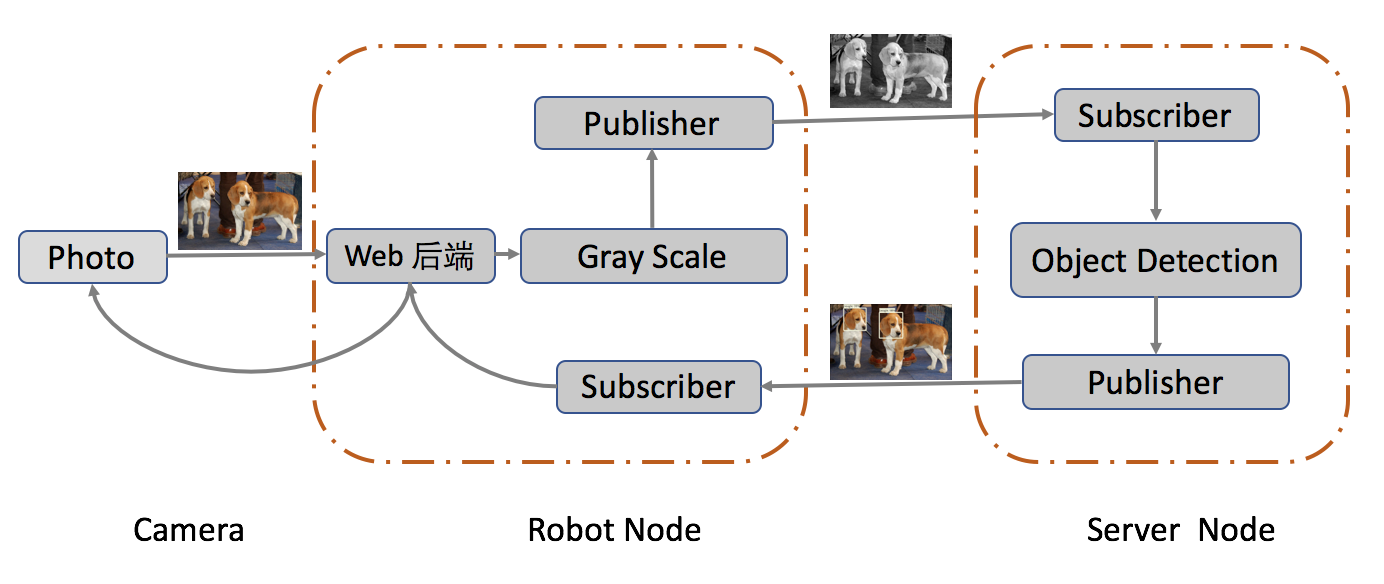
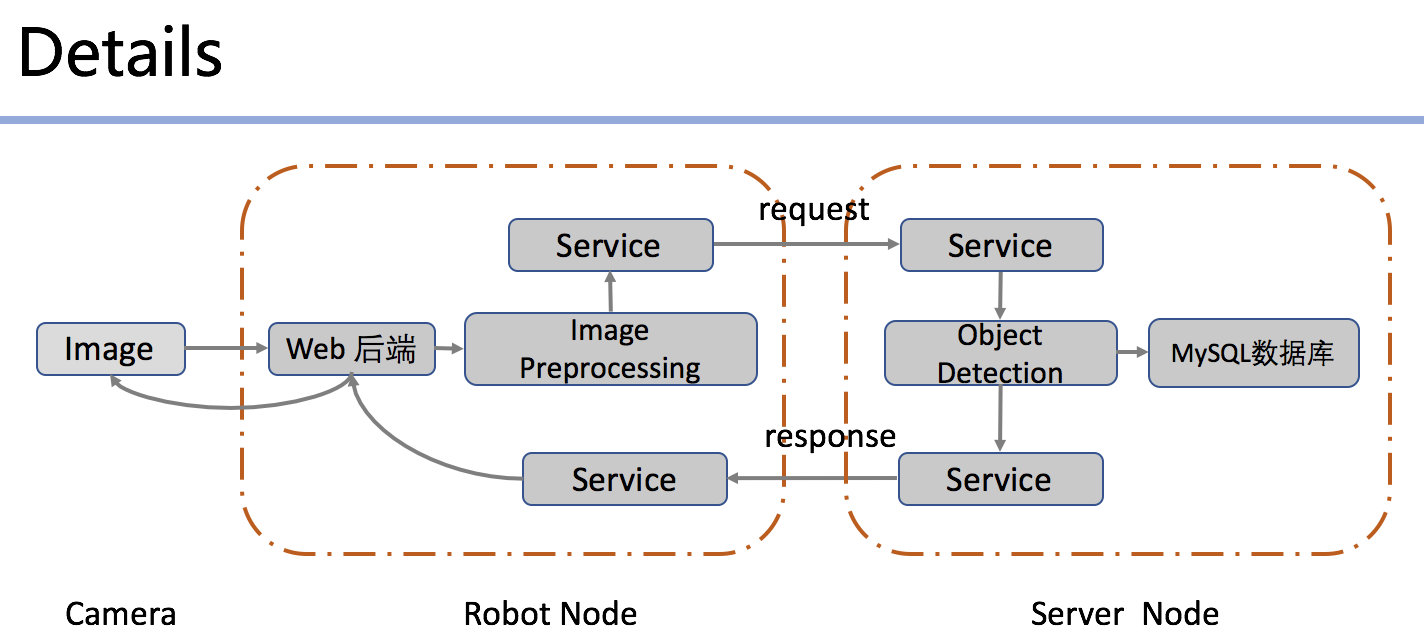
Update README and supplement requirement

diff --git a/README.md b/README.md
@@ -38,14 +38,15 @@ $ sudo apt install python-pip
 # 安装virtualenv
 $ sudo pip install virtualenv
 
-# 创建venv
+# 创建rosenv
 $ virtualenv rosenv -p /usr/bin/python3.5
 
-# 安装依赖包
+# 在创建rosenv路径下执行以下命令使用虚拟环境
+$ source rosenv/bin/activate
+
+# 在项目路径下执行下面命令安装依赖包
 $ pip install -r requirements.txt
 ```
-
-开发时需要先进入虚拟环境通过输入命令`source venv/bin/activate`，退出时输入命令`deactivate`
 
 
 
@@ -53,9 +54,11 @@ $ pip install -r requirements.txt
 
 ```
 |-rosproject/
-    |-msg/
-    |-images/                       # 相关图片
+    |-srv
+    |-images/                       # 项目相关图片
     |-scripts/                      # 脚本文件夹
+        |-input/                    # 存放上传的图片的文件夹
+        |-output/                   # 存放识别后的图片的文件夹
     	|-static/                   # 静态文件
     		|-css/                  # css样式文件
     			|-style.css
@@ -67,6 +70,7 @@ $ pip install -r requirements.txt
    		|-templates/                # html模版
    			|-index.html
         |-cloud_server.py           # 服务器节点
+        |-robot_client.py           # 客户端节点
         |-object_detection.py       # 物体检测识别
         |-web_server.py             # web端
     |-CMakeLists.txt                # 程序包元信息
@@ -79,7 +83,11 @@ $ pip install -r requirements.txt
 
 ## 3. 项目架构
 
-![system](./images/system.png)
+![system](./images/design.png)
+
+
+
+![system](./images/overview.png)
 
 
 
@@ -93,13 +101,47 @@ $ pip install -r requirements.txt
 
 * 物体检测模块
 
-* web端
+待完善：
+
+* web端（增加本地选择文件）
+
+* 服务器节点（结合物体检测模块）
+* 机器人节点（增加图片预处理）
 
 未完成：
 
-* 服务器节点
-* 机器人节点
 * 数据库
+
+
+
+## 5. 运行项目
+
+```shell
+# 每次运行时需要先进入虚拟环境rosenv
+# 通过在创建rosenv虚拟环境的路径下执行命令启动rosenv虚拟环境
+$ source rosenv/bin/activate
+
+# 进入工作空间下的src文件夹
+$ cd ~/catkin_ws/src
+$ git clone https://github.com/Songkc/ROS_Object_Detection.git
+
+# 回到工作空间进行编译程序包
+$ cd ~/catkin_ws
+$ catkin_make
+$ . ~/catkin_ws/devel/setup.bash
+
+# 进入项目脚本文件夹
+$ roscd ROS_Object_Detection
+$ cd scripts
+
+# 后台运行roscore
+$ nohup roscore &
+# 运行web服务器
+$ rosrun ROS_Object_Detection web_server.py
+
+# 打开另一个终端，同样进入到ROS_Object_Detection目录下，运行Server节点
+$ rosrun ROS_Object_Detection cloud_server.py
+```
 
 
 
